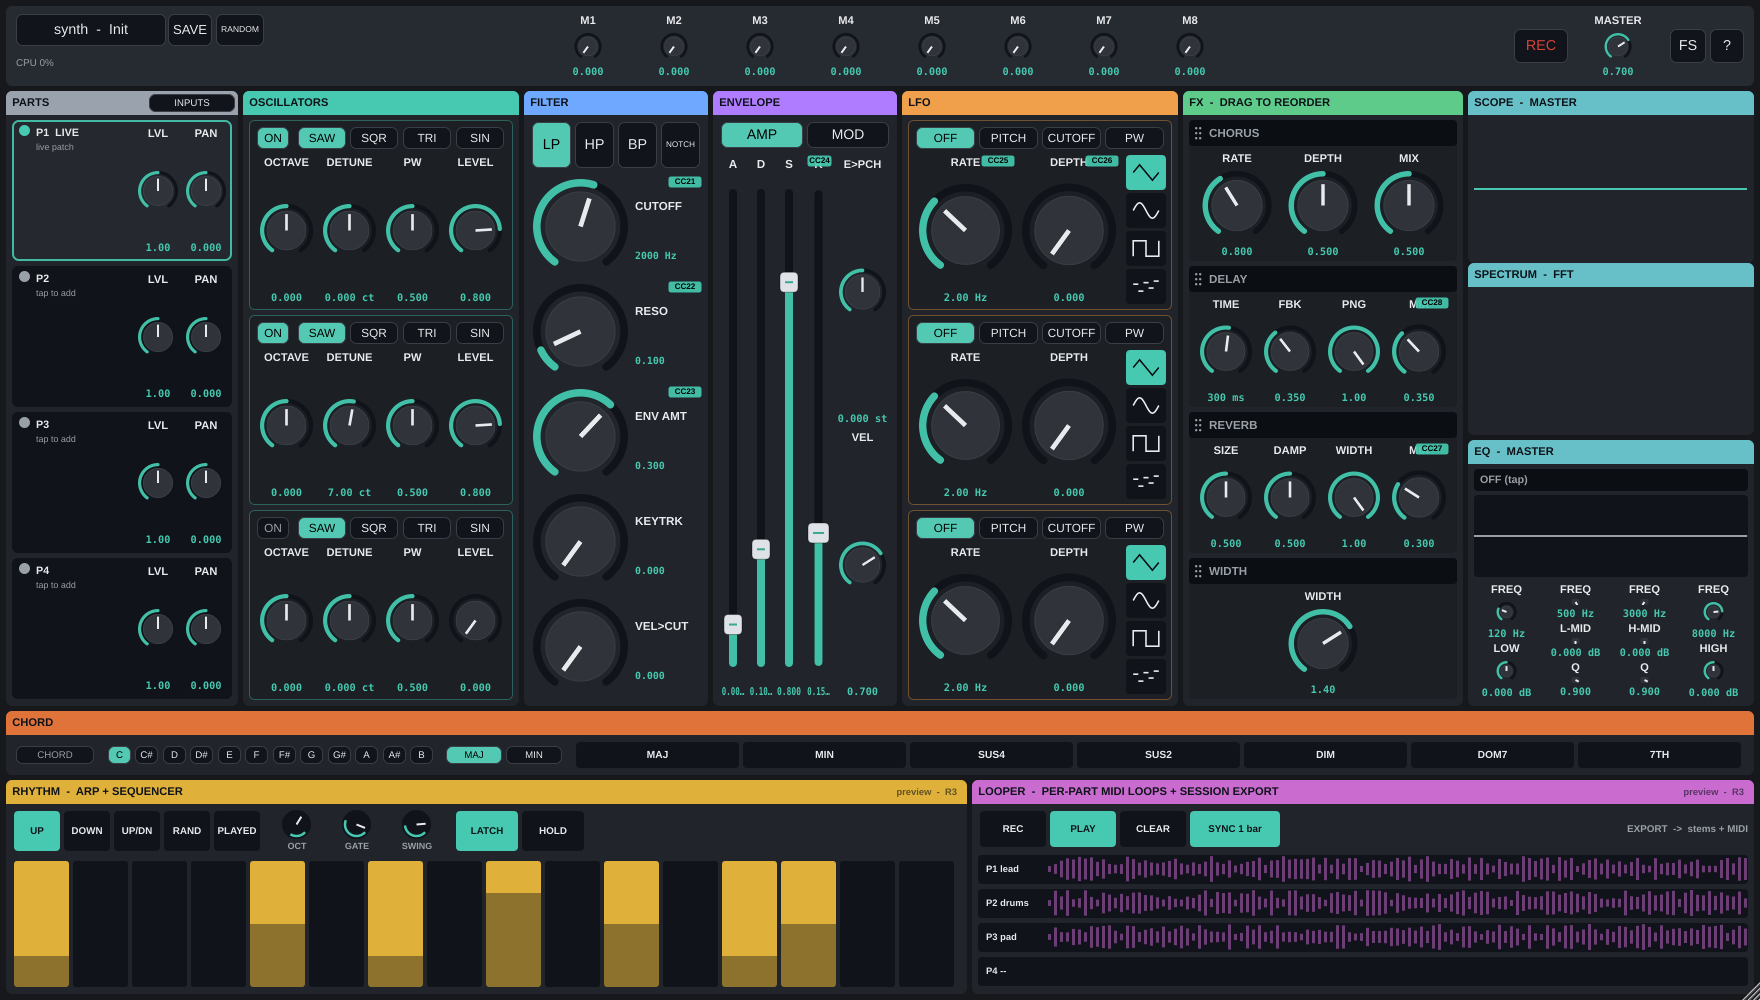
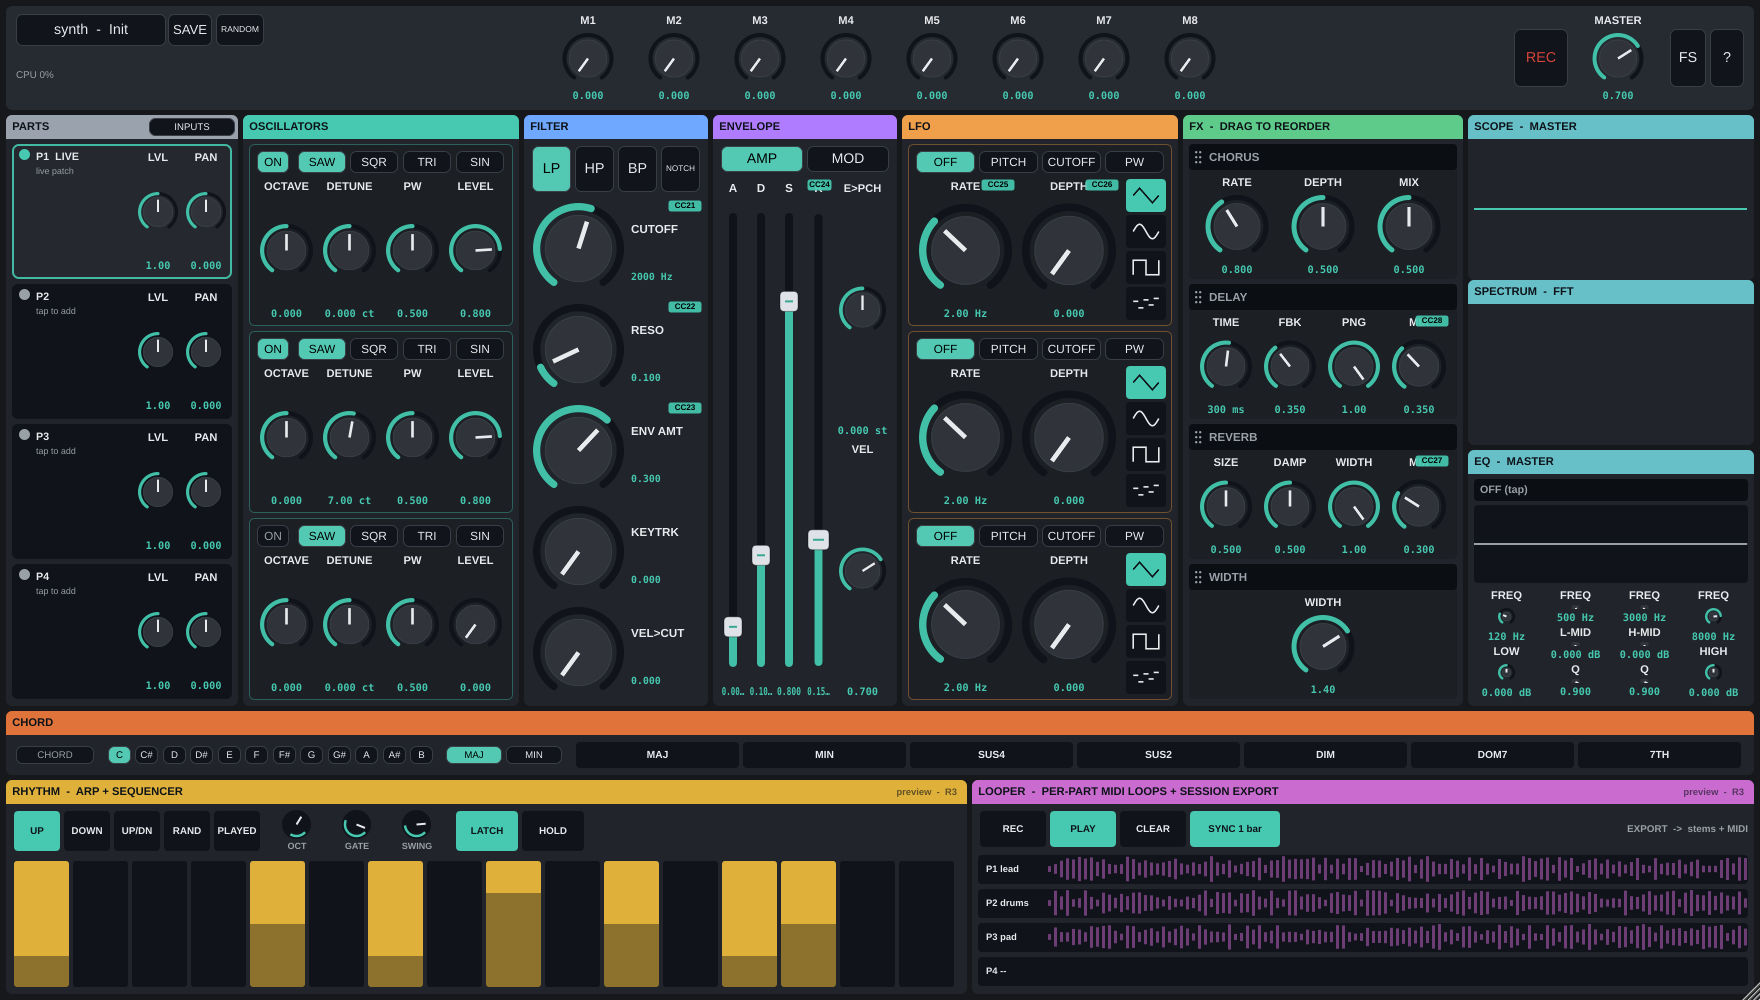
R2: reliable fullscreen (kiosk), bigger + snappier macro/EQ knobs
- Fullscreen: FS button (and F11) now toggle JUCE kiosk mode so the window truly
  fills the display and sits on top — no accidental clicks on apps behind it.
  Standalone only (a plugin must never seize the host's screen).
- Macro knobs enlarged (top bar 80 -> 104 px) so they read/hit better.
- Macro + EQ band knobs get 2x drag responsiveness (RotaryKnob::setDragPixels =
  kDragPixelsForFullRange/2); other controls keep the default feel.
- Confirm the master EQ is functional end-to-end: a new plugin test enables a
  low-shelf boost and verifies it lifts a low note through processBlock (the EQ is
  built and works; it just defaults to OFF - tap the EQ name bar to enable it).

Gate: Release run-all-checks 206/206 incl. pluginval s8. Audio path unchanged.

diff --git a/tests/plugin/test_macros.cpp b/tests/plugin/test_macros.cpp
@@ -56,3 +56,38 @@ TEST_CASE ("EQ defaults keep the master output a true bypass", "[plugin][eq][sta
     for (auto* id : { ParamID::eqLsGain, ParamID::eqLmGain, ParamID::eqHmGain, ParamID::eqHsGain })
         REQUIRE (p.apvts.getRawParameterValue (id)->load() == 0.0f);
 }
+
+TEST_CASE ("master EQ is functional: enabling a low-shelf boost lifts a low note", "[plugin][eq]")
+{
+    // Render a low tone through the processor with the EQ off, then with a big low-shelf
+    // boost enabled; the boosted render must carry more low-end energy. Proves the EQ is
+    // wired end-to-end (param -> processBlock -> audio), not just present in the UI.
+    auto renderRms = [] (bool eqOn)
+    {
+        VASynthProcessor p;
+        p.prepareToPlay (48000.0, 128);
+        p.apvts.getParameter (ParamID::eqOn)->setValueNotifyingHost (eqOn ? 1.0f : 0.0f);
+        if (eqOn) p.apvts.getParameter (ParamID::eqLsGain)->setValueNotifyingHost (1.0f);  // +18 dB
+
+        juce::AudioBuffer<float> buf (2, 128);
+        juce::MidiBuffer note; note.addEvent (juce::MidiMessage::noteOn (1, 45, 0.9f), 0);   // ~110 Hz
+        double rms = 0.0;
+        for (int b = 0; b < 16; ++b)
+        {
+            buf.clear();
+            juce::MidiBuffer m = (b == 0) ? note : juce::MidiBuffer();
+            p.processBlock (buf, m);
+            if (b >= 12)   // measure once the note has settled
+            {
+                const float* d = buf.getReadPointer (0);
+                for (int i = 0; i < 128; ++i) rms += (double) d[i] * d[i];
+            }
+        }
+        return std::sqrt (rms / (4 * 128));
+    };
+
+    const double off = renderRms (false);
+    const double on  = renderRms (true);
+    REQUIRE (off > 0.0);
+    REQUIRE (on > off * 1.1);      // the low-shelf boost audibly raised the low tone
+}

diff --git a/Source/PluginEditor.h b/Source/PluginEditor.h
@@ -122,7 +122,7 @@ public:
         auto area = getLocalBounds().reduced (6);
         const int gap = 5;
 
-        topBar->setBounds (area.removeFromTop (80)); area.removeFromTop (gap);
+        topBar->setBounds (area.removeFromTop (104)); area.removeFromTop (gap);
 
         if (bottomZones != nullptr)
         {
@@ -235,11 +235,18 @@ private:
     }
     void hideHelp() { helpOverlay.setVisible (false); grabQwertyFocus(); }
 
+    // True full-screen via JUCE kiosk mode: the window fills the display and sits on
+    // top, so you can't accidentally click an app behind it. Toggles back to windowed.
+    // Standalone only (a plugin must never take over the host's screen).
     void toggleFullscreen()
     {
-        if (auto* w = getTopLevelComponent())
-            if (auto* peer = w->getPeer())
-                peer->setFullScreen (! peer->isFullScreen());
+        if (! isStandalone()) return;
+        auto& desktop = juce::Desktop::getInstance();
+        if (desktop.getKioskModeComponent() != nullptr)
+            desktop.setKioskModeComponent (nullptr);
+        else if (auto* top = getTopLevelComponent())
+            desktop.setKioskModeComponent (top, false);
+        grabQwertyFocus();
     }
 
     void timerCallback() override

diff --git a/Source/UI/Widgets.h b/Source/UI/Widgets.h
@@ -360,6 +360,10 @@ public:
     // Update the displayed name (e.g. a macro showing its assigned target).
     void setDisplayName (juce::String n) { if (n != name) { name = std::move (n); repaint(); } }
 
+    // Override drag sensitivity for this knob (pixels of travel for the full range;
+    // fewer px = more responsive). Default is kDragPixelsForFullRange for all controls.
+    void setDragPixels (int px) { slider.setMouseDragSensitivity (juce::jmax (1, px)); }
+
 private:
     juce::String name;
     bool sideLabel = false;

diff --git a/Source/UI/TopBar.h b/Source/UI/TopBar.h
@@ -70,6 +70,7 @@ public:
         for (int m = 0; m < 8; ++m)
         {
             auto* k = new RotaryKnob (proc.apvts, ids[m], "M" + juce::String (m + 1), proc.getMidiLearn());
+            k->setDragPixels (kDragPixelsForFullRange / 2);    // 2x more responsive to finger drags
             macros.add (k); addAndMakeVisible (k);
             // When a macro moves, drive its assigned target (message-thread routing).
             const int idx = m;

diff --git a/Source/UI/EQPanel.h b/Source/UI/EQPanel.h
@@ -35,6 +35,7 @@ public:
         for (auto& d : kd)
         {
             auto* k = new RotaryKnob (proc.apvts, d.pid, d.name, proc.getMidiLearn());
+            k->setDragPixels (kDragPixelsForFullRange / 2);    // 2x more responsive to finger drags
             knobs.add (k); cols.add (d.col); addAndMakeVisible (k);
         }
         startTimerHz (20);   // refresh the curve as params move
